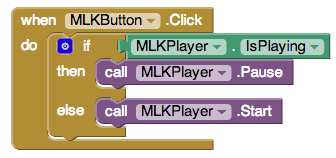
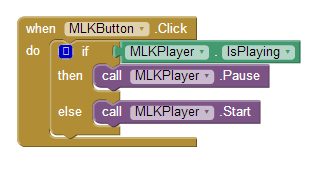
Changes to Nuggets
Changes to the images, taking out the background. About page fixed last
link.

diff --git a/static_pages/other/appPage.html b/static_pages/other/appPage.html
@@ -38,7 +38,7 @@ Give your app a descriptive screen title (this can be same as project name). The
 Give your app an icon. The icon is the little square image that appears on the device once an app is installed. The icon is a property of the Screen component and you can set it to any image file. 
 </li>
 <div style="text-align: center;">
-<img src="/assets/img/appPage/icon.PNG" alt=""  height = "400" width = "400">
+<img src="/assets/img/appPage/icon.png" alt=""  height = "400" width = "400">
     <p>
     <em>You can change the app's icon here.</em>
 </p>
@@ -54,14 +54,14 @@ Give your app an icon. The icon is the little square image that appears on the d
 Download the APK file of your app to your computer. An APK file has a .apk extension and is the executable app that runs on the device. You generate an app's APK file in App Inventor by selecting "Build | App (save.apk to my computer)".
 </li> 
 <div style="text-align: center;">
-<img src="/assets/img/appPage/apk.PNG" alt=""  height = "400" width = "400">
+<img src="/assets/img/appPage/apk.png" alt=""  height = "400" width = "400">
 </div>
 <li>
 Download source code to computer. The source code (blocks) allow you or others to edit/customize the app. You generate source code for an app in App Inventor from the Project page. Check your project, then choose Project and Export selected project (.aia) to my computer from the dropdown menu.
 </li>
 </ul>
 <div style="text-align: center;">
-<img src="/assets/img/appPage/aia.PNG" alt=""  height = "400" width = "400">
+<img src="/assets/img/appPage/aia.png" alt=""  height = "400" width = "400">
 </div>
 <H3>Create the portfolio page for your app.</H3>
 <ul>

diff --git a/static_pages/other/about.html b/static_pages/other/about.html
@@ -43,7 +43,7 @@ In 2011, Wolber's book <a href="http://www.amazon.com/App-Inventor-Create-Your-A
 </p>
 <p class="lead" style="text-align: left;">
 In 2012, Wolber was part of a collaborative project awarded a
- <a href=http://appinventorblog.com/2012/08/27/national-science-foundation-grant-for-teaching-app-inventor/">National Science
+ <a href="http://appinventorblog.com/2012/08/27/national-science-foundation-grant-for-teaching-app-inventor/">National Science
   Foundation TUES grant</a> (Transforming Undergraduate Education in STEM). 
   The grant team, including USF, MIT (Abelson), Wellesley (Franklyn Turbak), UMass-Lowell (Fred Martin),
    and Trinity College (Ralph Morelli), is tasked 
